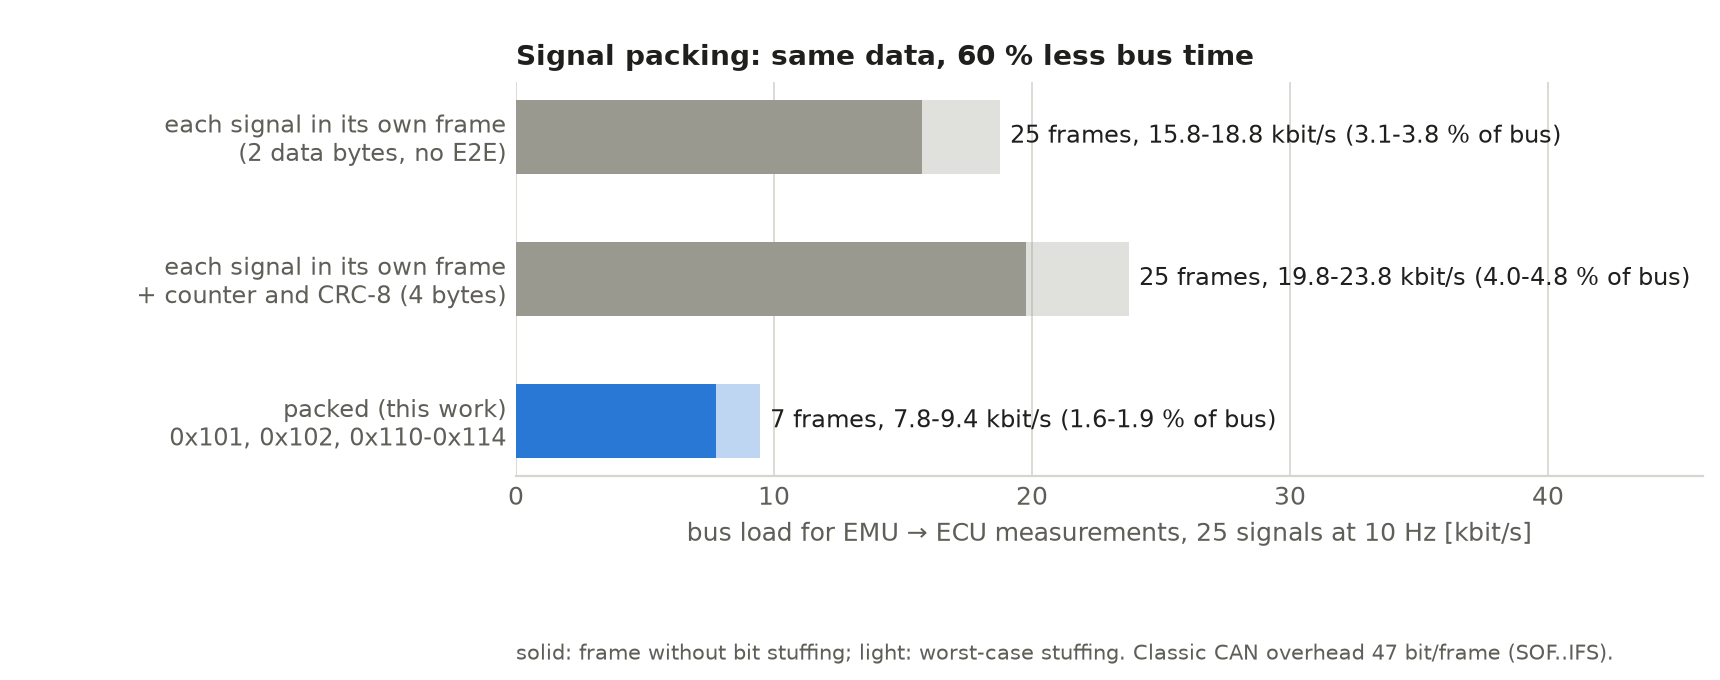
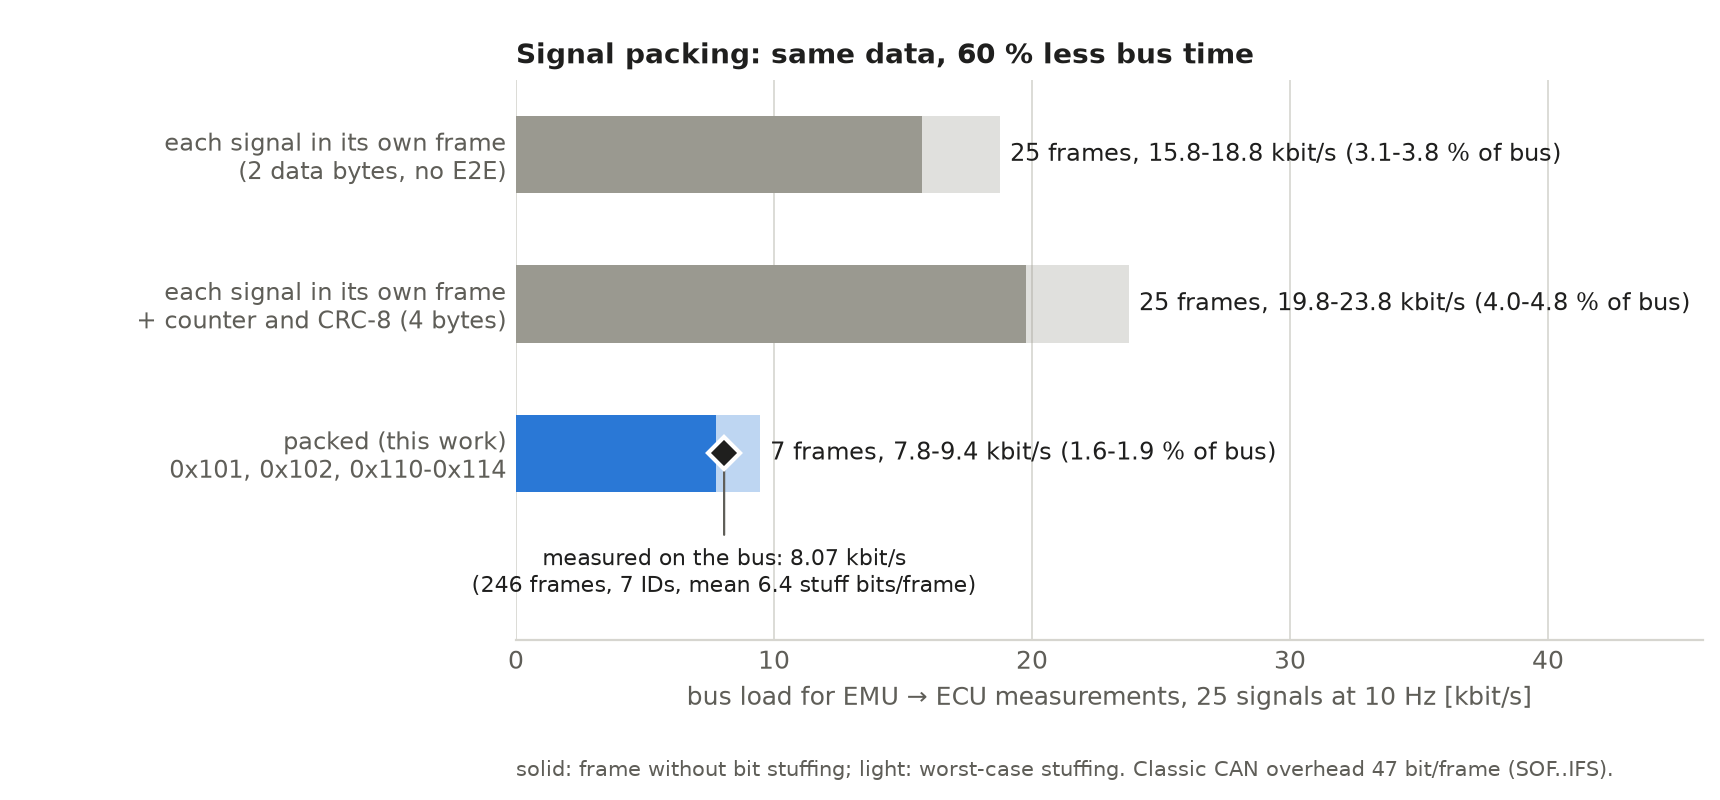
CAN figürleri: hat yüküne lojik analizör ölçümü, gerçek 0x110 çerçevesi figürü

diff --git a/results/can_packing_figures.py b/results/can_packing_figures.py
@@ -7,13 +7,17 @@
 
 Çalıştırma: python results/can_packing_figures.py  (çıktılar results/ içine)
 """
+import csv
 import os
+import sys
+import numpy as np
 import matplotlib
 matplotlib.use("Agg")
 import matplotlib.pyplot as plt
 from matplotlib.patches import Rectangle
 
 OUT = os.path.dirname(os.path.abspath(__file__))
+BMS_ECU_TOOLS = r"C:\Users\berka\STM32CubeIDE\workspace_2.2.0\bms_ecu\tools"
 INK, INK2, GRID = "#1f1f1e", "#5f5e58", "#d6d5cf"
 BLUE, ORANGE, AQUA, YELLOW, MAGENTA = "#2a78d6", "#eb6834", "#1baf7a", "#eda100", "#e87ba4"
 GRAY, DGRAY = "#9a9990", "#5f5e58"
@@ -94,7 +98,7 @@ for lab, nf, nb in cases:
     base, stuff = frame_bits(nb)
     rows.append((lab, nf, nf * base * RATE, nf * (base + stuff) * RATE))
 
-fig, ax = plt.subplots(figsize=(8.6, 3.4))
+fig, ax = plt.subplots(figsize=(8.6, 4.0))
 for i, (lab, nf, lo, hi) in enumerate(rows):
     y = len(rows) - 1 - i
     col = BLUE if i == 2 else GRAY
@@ -103,6 +107,19 @@ for i, (lab, nf, lo, hi) in enumerate(rows):
     ax.text(hi / 1e3 + 0.4, y, f"{nf} frames, {lo/1e3:.1f}-{hi/1e3:.1f} kbit/s "
             f"({100*lo/BUS:.1f}-{100*hi/BUS:.1f} % of bus)",
             va="center", fontsize=8.5, color=INK)
+# Ölçülen nokta: STM32 lojik analizörüyle (bms_ecu tools/la_stats.py) yakalanan gerçek çerçeveler,
+# kimlik başına ortalama ham bit (doldurma + IFS dahil) x 10 Hz.
+with open(os.path.join(OUT, "can_la_stats.csv")) as fh:
+    la = list(csv.DictReader(fh))
+ids = sorted({r["id"] for r in la})
+meas = sum(np.mean([int(r["bits"]) for r in la if r["id"] == i]) for i in ids) * RATE
+mean_stuff = np.mean([int(r["stuff"]) for r in la])
+ax.plot(meas / 1e3, 0, marker="D", ms=8, color=INK, mec="white", mew=1.5, zorder=5)
+ax.annotate(f"measured on the bus: {meas/1e3:.2f} kbit/s\n({len(la)} frames, {len(ids)} IDs, "
+            f"mean {mean_stuff:.1f} stuff bits/frame)",
+            xy=(meas / 1e3, 0), xytext=(meas / 1e3, -0.62), ha="center", va="top",
+            fontsize=8, color=INK, arrowprops=dict(arrowstyle="-", color=INK2, lw=0.8))
+ax.set_ylim(-1.25, len(rows) - 0.5)
 ax.set_yticks(range(len(rows)), [r[0] for r in rows][::-1], fontsize=8.5)
 ax.set_xlim(0, 46)
 ax.set_xlabel("bus load for EMU → ECU measurements, 25 signals at 10 Hz [kbit/s]", color=INK2)
@@ -114,9 +131,78 @@ ax.set_title("Signal packing: same data, 60 % less bus time", loc="left",
              fontsize=10, fontweight="bold")
 fig.text(0.30, 0.03, "solid: frame without bit stuffing; light: worst-case stuffing. "
          "Classic CAN overhead 47 bit/frame (SOF..IFS).", fontsize=7.5, color=INK2)
-fig.subplots_adjust(left=0.30, right=0.99, top=0.88, bottom=0.30)
+fig.subplots_adjust(left=0.30, right=0.99, top=0.90, bottom=0.20)
 fig.savefig(os.path.join(OUT, "can_bus_load.png"), dpi=200)
 plt.close(fig)
 
 for lab, nf, lo, hi in rows:
     print(f"{lab.splitlines()[0]:34s} {nf:2d} frames  {lo:7.0f}-{hi:7.0f} bit/s")
+print(f"measured (logic analyzer)          {len(ids)} IDs     {meas:7.0f} bit/s, "
+      f"{len(la)} frames, mean stuff {mean_stuff:.2f}")
+
+# ------------------------------------------------------------ 3) lojik analizör: gerçek 0x110
+# Ham örnekler STM32'nin kendi lojik analizöründen (APP_LA, PA11, 4,25 MS/s); çözüm bms_ecu
+# tools/la_view.py ile aynı (o modül yüklenir). Veri baytları figür 1'deki düzene göre çözülür.
+sys.path.insert(0, BMS_ECU_TOOLS)
+import la_view  # noqa: E402
+
+z = np.load(os.path.join(OUT, "can_la_raw_0x110.npy"))
+rate, x = int(z[0]), z[1:].astype(np.uint8)
+bits, t_bits, frames, spb = la_view.decode(rate, x)
+f = frames[0]
+tb_us, _ = la_view.bit_time([f], t_bits, bits, spb, rate)
+t_us = np.array(f["t_bits"]) / rate * 1e6
+lv = np.array([int(bits[k]) for k in f["raw_idx"]])
+fld = f["field"]
+t_end = t_us[-1] + 2.0
+
+FIELD_COL = {"SOF": BLUE, "ID": BLUE, "RTR": "#c3c2b7", "IDE": "#c3c2b7", "r0": "#c3c2b7",
+             "DLC": "#c3c2b7", "DATA": AQUA, "CRC": ORANGE, "CRC del": "#e9e8e2",
+             "ACK": MAGENTA, "ACK del": "#e9e8e2", "EOF": "#e9e8e2"}
+fig, ax = plt.subplots(figsize=(10.5, 4.2))
+# alan şeritleri (doldurma bitleri bulunduğu alana katılır, ayrıca işaretlenir)
+eff = []
+for k, nm in enumerate(fld):
+    eff.append(eff[-1] if nm == "stuff" else nm)
+seg_start = 0
+for k in range(1, len(eff) + 1):
+    if k == len(eff) or eff[k] != eff[seg_start]:
+        nm = eff[seg_start]
+        x0, x1 = t_us[seg_start], (t_us[k] if k < len(eff) else t_end)
+        ax.axvspan(x0, x1, ymin=0.08, ymax=0.62, color=FIELD_COL[nm], alpha=0.18, lw=0)
+        if nm in ("ID", "DLC", "DATA", "CRC", "ACK", "EOF"):
+            ax.text((x0 + x1) / 2, 1.42, nm if nm != "ID" else "ID 0x110", ha="center",
+                    fontsize=8, color=INK2)
+        seg_start = k
+ax.step(np.append(t_us, t_end), np.append(lv, lv[-1]), where="post", color=INK, lw=1.1)
+st = [t for t, nm in zip(t_us, fld) if nm == "stuff"]
+ax.plot(np.array(st) + 1.0, [-0.28] * len(st), "^", color=ORANGE, ms=6,
+        label=f"stuff bits ({len(st)})")
+# veri baytları: sınırlar + değerler
+d_idx = [k for k, nm in enumerate(fld) if nm == "DATA"]
+for b in range(8):
+    k0 = d_idx[8 * b]
+    k1 = d_idx[8 * b + 7]
+    x0, x1 = t_us[k0], t_us[k1] + 2.0
+    ax.axvline(x0, ymin=0.08, ymax=0.62, color="white", lw=1.5)
+    ax.text((x0 + x1) / 2, 1.18, f"b{b}\n{f['data'][b]:02X}", ha="center", fontsize=7.5, color=INK)
+d = f["data"]
+v = [d[0] | (d[1] & 0x0F) << 8, d[1] >> 4 | d[2] << 4, d[3] | (d[4] & 0x0F) << 8, d[4] >> 4 | d[5] << 4]
+txt = ("decoded: " + ", ".join(f"V{j+1} = {1.0 + 0.001 * r:.3f} V" for j, r in enumerate(v))
+       + f", counter {d[6] & 0x0F}, CRC-8 0x{d[7]:02X}  |  CRC-15 0x{f['crc_rx']:04X} OK, ACK, "
+       f"{f['n_bits'] + 3} bits incl. IFS, bit time {tb_us:.3f} µs")
+fig.text(0.09, 0.04, txt, fontsize=8, color=INK)
+ax.set_ylim(-0.45, 1.75)
+ax.set_yticks([0, 1], ["dominant", "recessive"])
+ax.set_xlim(-2, t_end + 2)
+ax.set_xlabel("time from SOF [µs]", color=INK2)
+for s in ("top", "right", "left"):
+    ax.spines[s].set_visible(False)
+ax.tick_params(length=0, colors=INK2)
+ax.legend(loc="upper right", frameon=False, fontsize=8, bbox_to_anchor=(1.0, 1.12))
+ax.set_title("Real frame 0x110 on PA11, captured by the STM32 itself (TIM6 + DMA, 4.25 MS/s)",
+             loc="left", fontsize=10, fontweight="bold", pad=18)
+fig.subplots_adjust(left=0.09, right=0.99, top=0.86, bottom=0.24)
+fig.savefig(os.path.join(OUT, "can_la_frame_0x110.png"), dpi=200)
+plt.close(fig)
+print("0x110:", " ".join(f"{1.0 + 0.001 * r:.3f}" for r in v), f"bit time {tb_us:.4f} us")
